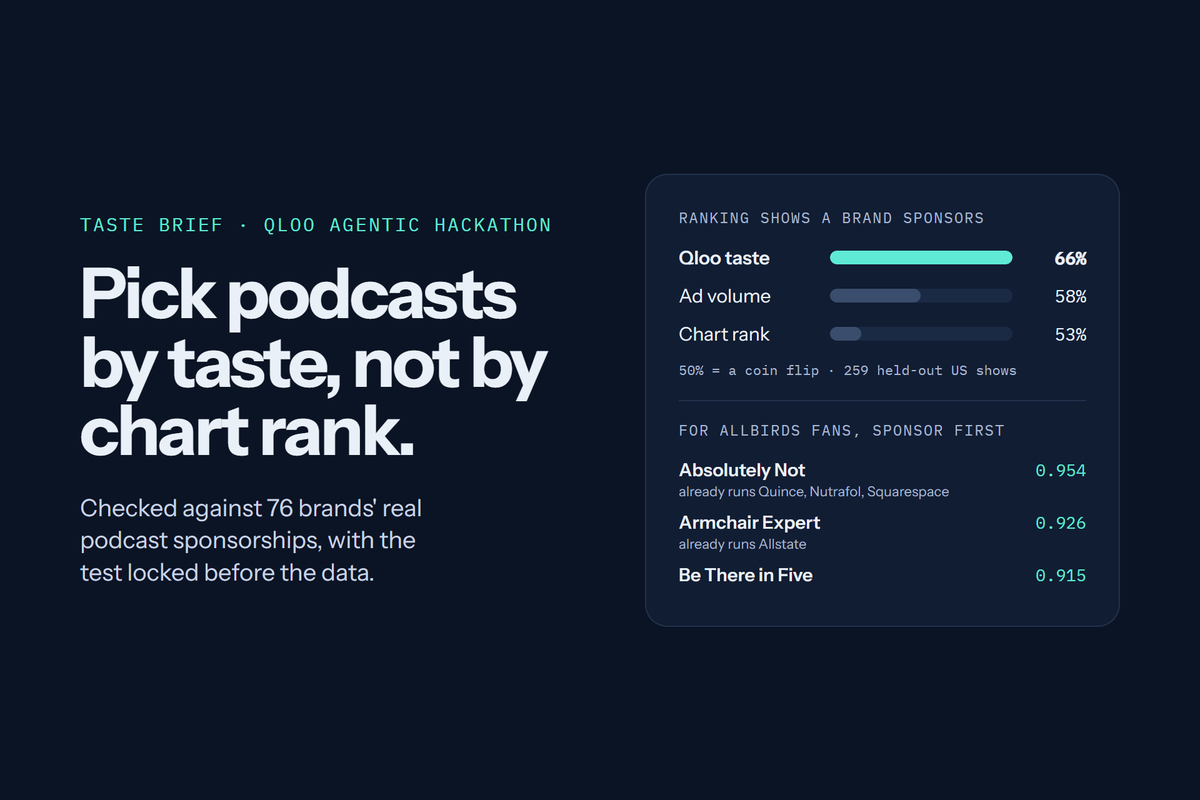
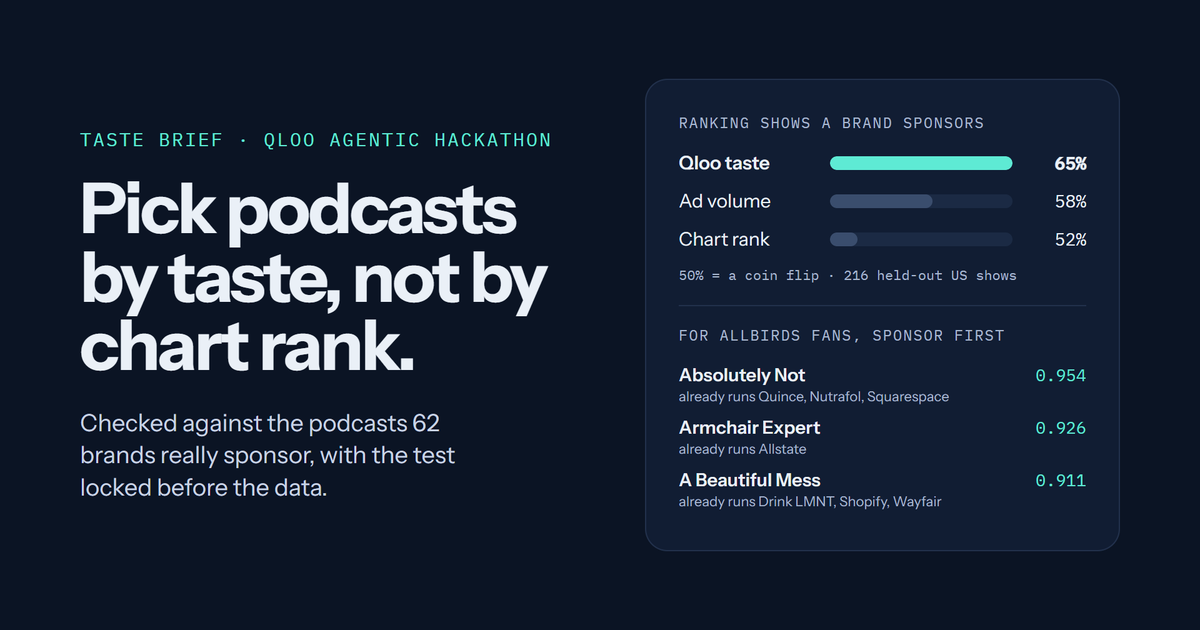
Podcasts ordered by Qloo rank plus ad-demand rank (the pre-registered H3 combination): 1.9 sponsored shows in each top 10 against 1.6 for either alone (public/rank.js, robustness.json); judge page: bar chart, two-way intervals, shortlist and prospective check; consistent numbers; mobile lock panel

diff --git a/public/index.html b/public/index.html
@@ -4,10 +4,10 @@
 <meta charset="utf-8">
 <meta name="viewport" content="width=device-width, initial-scale=1">
 <title>Taste Brief: pick podcasts by taste, not by chart rank</title>
-<meta name="description" content="An agent reads your audience's taste in Qloo and picks the podcasts to sponsor, the interests to target and the ad to test first. Checked against 76 brands' real podcast sponsorships.">
+<meta name="description" content="An agent reads your audience's taste in Qloo and picks the podcasts to sponsor, the interests to target and the ad to test first. Checked against the podcasts 62 brands really sponsor: Qloo 65%, the chart 52%.">
 <link rel="icon" href="/favicon.svg" type="image/svg+xml">
 <meta property="og:title" content="Taste Brief: pick podcasts by taste, not by chart rank">
-<meta property="og:description" content="Qloo ranked the shows brands really sponsor above the rest 66% of the time; the chart did 53%. Pre-registered, 259 held-out US podcasts, 76 brands.">
+<meta property="og:description" content="On 216 held-out US podcasts, Qloo ranked the shows 62 brands sponsor above the rest 65% of the time; the chart did 52%. Hypotheses locked before the data.">
 <meta property="og:image" content="https://taste-brief.thelongmarketing.workers.dev/og.png">
 <meta name="twitter:card" content="summary_large_image">
 <link rel="preconnect" href="https://fonts.googleapis.com">
@@ -176,9 +176,14 @@ ul.items strong{font-weight:600}
 details.trace{color:var(--faint);font-size:14px}
 .err{color:var(--warn)}
 body.result #how{display:none}
-.runbar{display:flex;flex-wrap:wrap;gap:6px 14px;align-items:center;border:1px solid var(--line);border-radius:14px;padding:12px 16px;font-size:14px;color:var(--mute)}
-.runbar b{color:var(--ink);font-weight:600}.runbar .dot{color:var(--faint)}
+.runbar{display:flex;flex-wrap:wrap;gap:6px 22px;align-items:center;border:1px solid var(--line);border-radius:14px;padding:12px 16px;font-size:14px;color:var(--mute)}
+.runbar b{color:var(--ink);font-weight:600}.runbar .acts{margin-left:auto;display:flex;flex-wrap:wrap;gap:8px}
+.runbar .acts button{font-size:13px;min-height:38px;padding:6px 14px;border-radius:10px}
+.scroll{overflow-x:auto}.loop .lockid{display:inline-block;max-width:100%;overflow-wrap:anywhere}.loop label{max-width:100%}.loop input[type=file]{width:100%;min-width:0}
+@media (max-width:600px){.verdicts thead{display:none}.verdicts,.verdicts tbody,.verdicts tr,.verdicts td{display:block}.verdicts tr{padding:10px 0;border-bottom:1px solid var(--dark-line)}.verdicts td{border:0;padding:2px 0}.verdicts td[data-label]::before{content:attr(data-label) ": ";color:#9aa0ad;font-size:12px}}
+@media (max-width:600px){.tests-card-inner .loop,.loop{margin-left:-12px;margin-right:-12px;padding:16px}.loop .steps{gap:8px}.runbar .acts{margin-left:0}}
 .pods-note{margin:14px 0 0;font-size:14px;color:var(--mute)}
+.pods .ads{font-family:var(--mono);font-size:12px;color:var(--faint)}
 .tests-rule{margin:0 0 14px;font-size:14px;color:var(--mute)}
 .loop button:disabled{opacity:1;background:var(--ok-soft);color:var(--ok);cursor:default}
 .loop input[type=file]::file-selector-button{font:inherit;font-weight:600;color:var(--dark-ink);background:transparent;border:1px solid #3a3f4a;border-radius:10px;padding:8px 12px;margin-right:10px;cursor:pointer}
@@ -195,12 +200,11 @@ body.result #how{display:none}
 <div class="hero-copy">
 <p class="kicker">For brands buying podcast and social ads</p>
 <h1>Pick podcasts by taste, not by chart rank.</h1>
-<p class="stat-m">Qloo 65% · chart 52%</p>
 <p class="lede">An agent reads your audience's taste in Qloo and picks the podcasts to sponsor, the interests to target and the ad to test first. Checked against where brands really sponsor.</p>
 <div class="cta"><button id="replay" type="button" hidden>See a real run now</button><a href="#f">or build your own</a></div>
 </div>
 <div class="proof" id="proof">
-<p class="eyebrow">Checked against real sponsorships · 216 podcasts, 62 brands</p>
+<p class="eyebrow">Real sponsorships · 216 podcasts · 62 brands</p>
 <p class="big">Shown one show a brand sponsors and one it doesn't, Qloo ranked the sponsored one higher 65% of the time. The chart did 52%.</p>
 <div class="pts" aria-label="Points above a coin flip">
 <div class="pt"><span>Qloo taste</span><i><b style="width:100%"></b></i><span>+14.7</span></div>
@@ -209,7 +213,7 @@ body.result #how{display:none}
 <div class="pt"><span>Chart rank</span><i><b class="base" style="width:15%"></b></i><span>+2.2</span></div>
 <p class="axis">Points above a coin flip (0 = 50%)</p>
 </div>
-<div class="chips"><span>Locked before the data</span><span>Holds within each genre</span><span>Holds for new deals</span></div>
+<div class="chips"><span>Locked before the data</span><span>Holds within each genre</span><span>Prospective test locked</span></div>
 <p class="foot">Sponsor reads from the shows' own episode notes, never shown to Qloo. Pre-registered labels give the same: 66% against 53%. <a href="/judge#podcasts">The full test</a></p>
 </div>
 </header>
@@ -250,6 +254,7 @@ body.result #how{display:none}
 <script type="module">
 import { RULE, canonicalPlan, planHash, adSetRows, toCsv, parseCsv, readResults, verdicts } from "/verdict.js";
 import { agentPath } from "/path.js";
+import { sponsorReady } from "/rank.js";
 const $ = (s) => document.querySelector(s);
 // a spaced dash used as punctuation in model text reads as a comma; hyphens inside words stay
 const esc = (s) => String(s ?? "").replace(/\s+[—–]\s+/g, ", ").replace(/[&<>"']/g, (c) => ({ "&": "&amp;", "<": "&lt;", ">": "&gt;", '"': "&quot;", "'": "&#39;" }[c]));
@@ -327,8 +332,8 @@ function versus(base, b, unbacked, scored, market) {
   const names = (x) => list(x.meta_interests).map((i) => esc(cleanInterest(i.interest))).join(", ");
   const city = esc(String(market || "").split(",")[0]);
   return `<section class="panel card vs">${scored ? `<h2><span>The same question, with and without Qloo</span><small>every interest scored by Qloo for this brand's audience in ${city}</small></h2>` : ""}<div class="grid">
-    <div class="guess"><h3>Plain AI guess, no data</h3><p>${esc(base.audience_summary)}</p>${scored ? gradedLine(scored.plain) : `<p><strong>Interests:</strong> ${names(base)}</p>`}</div>
-    <div class="ours"><h3>Taste Brief, from Qloo</h3><p>${esc(b.audience_summary)}</p>${scored ? gradedLine(scored.taste_brief) : `<p><strong>Interests:</strong> ${names(b)}</p>`}</div>
+    <div class="guess"><h3>Plain AI guess, no data</h3>${scored ? gradedLine(scored.plain) : `<p><strong>Interests:</strong> ${names(base)}</p>`}</div>
+    <div class="ours"><h3>Taste Brief, from Qloo</h3>${scored ? gradedLine(scored.taste_brief) : `<p><strong>Interests:</strong> ${names(b)}</p>`}</div>
   </div>${scored ? `<p class="note">Same grader for both: each interest is looked up in Qloo by its exact name, then Qloo scores how much this audience likes it. Generic interests such as "Running" can't be scored. For Taste Brief's picks this is partly circular, since they come from Qloo; it shows how far each pick is from Qloo's view of the audience, not how an ad will do. A score here can differ slightly from the one cited in the brief below, which came from the agent's own call (some narrowed to a product tag).</p>` : ""}${!scored && list(unbacked).length ? `<p class="unbacked"><strong>The plain guess would target these, and Qloo returned none of them in this run:</strong> ${list(unbacked).map((x) => esc(cleanInterest(x.label))).join(", ")}. That does not make them wrong. It means they are a guess, so test them against the Qloo picks or leave them out.</p>` : ""}</section>`;
 }
 
@@ -415,7 +420,7 @@ function loopPanel() {
       <div class="step"><b>2. Run it</b>A planning sheet for building the ad sets in Ads Manager, named with the plan id, capped at ${RULE.cap} per arm.</div>
       <div class="step"><b>3. Read it back</b>Upload the Ads Manager export. Checked against the receipt, each test reads ahead, pause, no clear difference or inconclusive.</div>
     </div>
-    <p class="note" style="margin:0">Locked rule: with at least ${RULE.minAddsToCart} adds to cart in the test and the control, pause a test whose cost per add to cart is more than ${Math.round(RULE.worseBy * 100)}% above the control's; an arm that hits its cap first is inconclusive. Exploratory calls for a small budget, not statistical proof.</p>
+    <p class="note" style="margin:0">Locked rule: once the test and the control each have ${RULE.minAddsToCart} adds to cart, a test is ahead if its cost per add to cart is below the control's, pause if it is more than ${Math.round(RULE.worseBy * 100)}% above, otherwise no clear difference; an arm that hits its spend cap first is inconclusive. Exploratory calls for a small budget, not statistical proof.</p>
     <div class="row"><button type="button" id="lock">Lock this test plan</button><span id="lock-out"></span></div>
     <div id="after-lock" hidden>
       <div class="row"><button type="button" class="ghost" id="dl-sheet">Download the planning sheet (CSV)</button><button type="button" class="ghost" id="dl-plan">Download the locked plan (JSON)</button></div>
@@ -473,7 +478,7 @@ function wireLoop(j) {
     const money = (x) => (x == null ? "n/a" : x.toFixed(2));
     $("#verdict-out").innerHTML = (sample ? `<div class="banner synthetic">Sample numbers, made up to show how the rule reads results. No ads were run.</div>` : "") + check
       + (v.length ? `<div class="scroll"><table class="verdicts"><thead><tr><th>Arm</th><th>Spend</th><th>Adds to cart</th><th>Cost per add to cart (control)</th><th>Verdict</th></tr></thead><tbody>${v.map((r) =>
-        `<tr><td>${esc(r.arm)}</td><td>${money(r.spend)}</td><td>${esc(r.addsToCart)}</td><td>${money(r.cost)} (${money(r.controlCost)})</td><td><span class="${cls(r.verdict)}">${esc(r.verdict)}</span><br><span class="note">${esc(r.why)}</span></td></tr>`).join("")}</tbody></table></div>`
+        `<tr><td><strong>${esc(r.arm)}</strong></td><td data-label="Spend">${money(r.spend)}</td><td data-label="Adds to cart">${esc(r.addsToCart)}</td><td data-label="Cost per add to cart (control)">${money(r.cost)} (${money(r.controlCost)})</td><td><span class="${cls(r.verdict)}">${esc(r.verdict)}</span><br><span class="note">${esc(r.why)}</span></td></tr>`).join("")}</tbody></table></div>`
         : `<p class="err">No ad sets named TB-${esc(locked.id)} in that file. Export from Ads Manager at the ad set level, with Amount spent and Adds to cart.</p>`);
   };
   $("#results-file").addEventListener("change", async (e) => { const f = e.target.files?.[0]; if (f && locked) show(await f.text(), false); });
@@ -494,15 +499,15 @@ function podcastPanel(p) {
   if (!p || p.error || !list(p.shows).length) return "";
   const t = PODCAST_TEST;
   const seeds = [...new Set(list(p.shows).flatMap((s) => list(s.driven_by).map((d) => d.name)))];
-  const li = list(p.shows).slice(0, 8).map((s, i) => {
+  const li = sponsorReady(list(p.shows)).slice(0, 8).map((s, i) => {
     const ads = list(s.advertisers);
     const why = list(s.driven_by)[0];
-    return `<li><span class="n">${String(i + 1).padStart(2, "0")}</span><div class="meta"><b>${esc(s.name)}</b>${ads.length ? `<span>Its episode notes already run ads for ${ads.slice(0, 4).map(esc).join(", ")}${ads.length > 4 ? ` and ${ads.length - 4} more` : ""}</span>` : `<span>No sponsor reads in the data we read: ask the host for rates</span>`}${why && seeds.length > 1 ? `<span class="why">Fit driven by ${esc(why.name)} fans</span>` : ""}</div><span class="sc">${s.affinity == null ? "" : Number(s.affinity).toFixed(3)}</span></li>`;
+    return `<li><span class="n">${String(i + 1).padStart(2, "0")}</span><div class="meta"><b>${esc(s.name)}</b>${ads.length ? `<span>Its episode notes already run ads for ${ads.slice(0, 4).map(esc).join(", ")}${ads.length > 4 ? ` and ${ads.length - 4} more` : ""}</span>` : `<span>No sponsor reads in the data we read: ask the host for rates</span>`}${why && seeds.length > 1 ? `<span class="why">Fit driven by ${esc(why.name)} fans</span>` : ""}</div><span class="sc">${s.affinity == null ? "" : Number(s.affinity).toFixed(3)}<br><span class="ads">${ads.length} ads</span></span></li>`;
   });
   const half = Math.ceil(li.length / 2);
-  return `<section class="panel card"><h2><span>Podcasts to sponsor first</span><small>${seeds.length === 1 ? `ranked by how much ${esc(seeds[0])} fans like each show (Qloo explainability)` : "ranked by Qloo for this brand's audience"}</small></h2>
+  return `<section class="panel card"><h2><span>Podcasts to sponsor first</span><small>shows ${seeds.length === 1 ? `${esc(seeds[0])} fans like (Qloo explainability)` : "this audience likes"}, ordered by taste and proven ad demand</small></h2>
     <div class="pods"><ol>${li.slice(0, half).join("")}</ol><ol start="${half + 1}">${li.slice(half).join("")}</ol></div>
-    <p class="pods-note">Mostly US shows: check reach in your market. In a pre-registered test on ${t.shows} held-out US podcasts and ${t.brands} brands, this ranking put the shows a brand sponsors above the rest ${Math.round(t.qloo * 100)}% of the time; the chart ${Math.round(t.chart * 100)}%. <a href="/judge#podcasts">The test</a></p></section>`;
+    <p class="pods-note">Score: how much the brand's fans like the show (Qloo). Ads: advertisers its episode notes already run. In the locked test on ${t.shows} held-out US podcasts and ${t.brands} brands, Qloo's taste rank put a show the brand sponsors above one it doesn't ${Math.round(t.qloo * 100)}% of the time (the chart ${Math.round(t.chart * 100)}%), and this order, taste plus ad demand, found 1.9 sponsored shows in each top 10, against 1.6 for either alone and 0.8 for the chart. Mostly US shows: check reach in your market. <a href="/judge#podcasts">The test</a></p></section>`;
 }
 
 // The agent's own decisions in this run, read from its Qloo calls, and what it chose not to use (its caveats).
@@ -532,7 +537,7 @@ function testsCard(b, j) {
   const same = tp.every((x) => x.kpi === tp[0].kpi && x.stop_if === tp[0].stop_if);
   const city = esc(String(j.market).split(",")[0]);
   const lines = tp.map((x) => `<li><strong>${esc(x.hypothesis)}</strong><dl><dt>Changes</dt><dd>${x.variable === "targeting" ? "Targeting only, with your usual creative" : x.variable === "creative" ? "Creative only, on the broad audience" : esc(x.variable)}</dd><dt>Run</dt><dd>${esc(x.ad_set)}</dd>${x.why ? `<dt>Why</dt><dd>${esc(x.why)}</dd>` : ""}${same ? "" : `<dt>Judge on</dt><dd>${esc(x.kpi)}</dd><dt>Pause rule</dt><dd>${esc(x.stop_if)}</dd>`}</dl>${ev(x, true)}</li>`).join("");
-  return card("What to test first", `<p class="tests-rule">Control for every test: broad targeting in ${city}, same ages, your usual message. Each test changes one thing.${same ? ` Judge on ${esc(lc(tp[0].kpi))}; pause rule: ${esc(lc(tp[0].stop_if))}` : ""}</p><ul class="tests">${lines}</ul>${loopPanel()}`, "each test rests on the Qloo results shown");
+  return card("What to test first", `<p class="tests-rule">Control for every test: broad targeting in ${city}, same ages, your usual message. Each test changes one thing${same ? `, judged on ${esc(lc(tp[0].kpi))}` : ""}. The rule for reading results is locked below.</p><ul class="tests">${lines}</ul>${loopPanel()}`, "each test rests on the Qloo results shown");
 }
 
 // Draw one result: from a run that just finished, or the recorded run of the example.
@@ -542,13 +547,13 @@ function showResult(j) {
   $("#status").textContent = "";
   $("#live").innerHTML = "";
   const when = j.recorded ? new Date(j.recorded.at).toLocaleString(undefined, { dateStyle: "medium", timeStyle: "short" }) : "";
-  const asked = `<b>${esc(j.product)}</b><span class="dot">·</span>${esc(j.market)}${j.compare_market ? ` vs ${esc(j.compare_market)}` : ""}${j.references ? `<span class="dot">·</span>${esc(j.references)}` : ""}`;
-  const steps = `<span class="dot">·</span>${j.trace.length} agent steps${j.run?.qloo_calls ? `, ${j.run.qloo_calls} Qloo calls in all` : ""}, listed at the bottom`;
+  const asked = `<b>${esc(j.product)}</b><span>${esc(j.market)}${j.compare_market ? ` vs ${esc(j.compare_market)}` : ""}</span>${j.references ? `<span>${esc(j.references)}</span>` : ""}`;
+  const steps = `<span>${j.trace.length} agent steps${j.run?.qloo_calls ? `, ${j.run.qloo_calls} Qloo calls with grading and the city lists` : ""}</span><span class="acts"><button type="button" class="ghost" id="copy-md">Copy the brief</button><button type="button" class="ghost" id="dl-csv">Interests as CSV</button></span>`;
   const banner = j.mode === "replay"
-    ? `<div class="runbar"><span>Real run, recorded ${esc(when)}</span><span class="dot">·</span>${asked}${steps}</div>`
+    ? `<div class="runbar"><span>Real run, recorded ${esc(when)}</span>${asked}${steps}</div>`
     : j.mode === "live"
-    ? `<div class="runbar"><span>Live run on real Qloo data${j.quota ? `, ${j.quota.left} free runs left today` : ""}</span><span class="dot">·</span>${asked}${steps}</div>`
-    : `<div class="banner synthetic">Sample data. The names and numbers below are made up to show how it works. Add the access code, or come back tomorrow, for real Qloo data.</div>`;
+    ? `<div class="runbar"><span>Live run on real Qloo data${j.quota ? `, ${j.quota.left} free runs left today` : ""}</span>${asked}${steps}</div>`
+    : `<div class="banner synthetic">Sample data. The names and numbers below are made up to show how it works. Add the access code, or come back tomorrow, for real Qloo data.</div><div class="runbar">${asked}${steps}</div>`;
   const warn = [j.incomplete ? `The model's brief still had a problem after two resends (${esc(j.incomplete)}). Treat it as a draft.` : "",
     j.mode === "live" && j.signal?.weak ? `Limited high affinity results: Qloo returned ${j.signal.strong} results with affinity 0.9 or more for this seed. That threshold is this tool's rule of thumb, not a confidence score; a closer comparable brand may give more to work with.` : ""].filter(Boolean);
   $("#out").innerHTML = `${banner}${warn.map((w) => `<div class="banner synthetic">${w}</div>`).join("")}
@@ -569,7 +574,6 @@ function showResult(j) {
     </div>
     ${list(b.test_plan).length ? testsCard(b, j) : ""}
     ${markets(j.markets)}
-    <div class="actions"><button type="button" class="ghost" id="copy-md">Copy the brief</button><button type="button" class="ghost" id="dl-csv">Download interests as CSV</button></div>
     <details class="trace"><summary>Every Qloo call the agent made</summary>${j.run ? `<p class="note">This run: ${esc(j.run.seconds)} s, ${esc(j.run.qloo_calls)} Qloo calls, ${esc(j.run.model_calls)} model calls, version ${esc(String(j.run.version).slice(0, 8))}, ${esc(j.run.at)}.</p>` : ""}<ol>${list(j.trace).map((t) =>
       `<li>${esc(t.tool)} ${t.input ? esc(JSON.stringify(t.input)) : ""}${t.n !== undefined ? `: ${t.n} results` : ""}${t.error ? ` <span class="err">${esc(t.error)}</span>` : ""}</li>`).join("")}</ol></details>`;
   wireLoop(j);

diff --git a/public/judge.html b/public/judge.html
@@ -56,6 +56,11 @@ ul ul{margin:4px 0 0}
 .btn:hover{color:var(--acc-ink)}
 code{font-family:var(--mono);font-size:13px;background:var(--code);border-radius:6px;padding:1px 5px;overflow-wrap:anywhere}
 .decision{background:var(--code);border-radius:14px;padding:14px 16px;font-weight:600;margin:16px 0 0}
+.pts{display:flex;flex-direction:column;gap:10px;max-width:640px;margin:16px 0 4px}
+.pt{display:grid;grid-template-columns:170px minmax(0,1fr) 56px;gap:12px;align-items:center;font-size:14px}
+.pt i{display:block;height:12px;border-radius:6px;background:#1c2a44}.pt b{display:block;height:12px;border-radius:6px;background:var(--ok)}.pt b.base{background:#3a4a63}
+.pt span:last-child{font-family:var(--mono);text-align:right}.axis{margin:0;font-family:var(--mono);font-size:12px;color:var(--faint)}
+@media (max-width:640px){.pt{grid-template-columns:1fr auto;gap:4px 10px}.pt i{grid-column:1/-1;grid-row:2;height:8px}.pt b{height:8px}}
 </style>
 </head>
 <body>
@@ -75,16 +80,23 @@ code{font-family:var(--mono);font-size:13px;background:var(--code);border-radius
     <h2>The test: which podcasts do brands really sponsor?</h2>
     <p>Sponsor reads in the shows' own episode notes (public RSS) are the answer key; Qloo never sees them. For each brand, Qloo ranks the shows by how much the brand's audience likes them, and we check how often a show the brand sponsors ranks above one it doesn't (AUC; 0.50 is a coin flip). A show counts as sponsored when it reads the brand in at least 2 episodes of the past year.</p>
     <p>Locked first: hypotheses, measures, baselines and pass rules were fingerprinted with SHA-256 and pushed to the public repo before any held-out show was read (<code>PREREGISTRATION.md</code>, commit c4d6732), and the analysis code before any score was fetched. The pilot shows (Apple's US top 200) are not in the test, which uses Apple's US charts in 12 genres. Check the fingerprints on any OS with <code>python scripts/podcast/verify_lock.py</code>.</p>
+    <div class="pts" role="img" aria-label="Points above a coin flip, strict labels">
+      <div class="pt"><span>Qloo taste</span><i><b style="width:100%"></b></i><span>+14.7</span></div>
+      <div class="pt"><span>Ad volume</span><i><b class="base" style="width:56%"></b></i><span>+8.2</span></div>
+      <div class="pt"><span>Qloo popularity</span><i><b class="base" style="width:18%"></b></i><span>+2.6</span></div>
+      <div class="pt"><span>Chart rank</span><i><b class="base" style="width:15%"></b></i><span>+2.2</span></div>
+      <p class="axis">AUC points above a coin flip (0 = 50%), strict labels</p>
+    </div>
     <table>
       <thead><tr><th>Ranking the shows by</th><th>Strict labels: 216 shows, 62 brands</th><th>Pre-registered: 259 shows, 76 brands</th></tr></thead>
       <tbody>
-        <tr><td><strong>Qloo affinity for the brand</strong> (what Taste Brief uses)</td><td class="n" data-label="Strict"><span><strong>0.647</strong> (0.611 to 0.684)</span></td><td class="n" data-label="Pre-registered"><span><strong>0.663</strong> (0.630 to 0.697)</span></td></tr>
-        <tr><td>Ad volume: how many other brands the show carries</td><td class="n" data-label="Strict"><span>0.582 (fair*: 0.615)</span></td><td class="n" data-label="Pre-registered"><span>0.581 (fair*: 0.627)</span></td></tr>
+        <tr><td><strong>Qloo affinity for the brand</strong> (what Taste Brief uses)</td><td class="n" data-label="Strict"><span><strong>0.647</strong> (0.60 to 0.70)</span></td><td class="n" data-label="Pre-registered"><span><strong>0.663</strong> (0.61 to 0.71)</span></td></tr>
+        <tr><td>Ad volume: how many other brands the show carries</td><td class="n" data-label="Strict"><span>0.582</span></td><td class="n" data-label="Pre-registered"><span>0.581</span></td></tr>
         <tr><td>Qloo popularity of the show</td><td class="n" data-label="Strict"><span>0.526</span></td><td class="n" data-label="Pre-registered"><span>0.517</span></td></tr>
         <tr><td>Apple chart rank in its genre</td><td class="n" data-label="Strict"><span>0.522</span></td><td class="n" data-label="Pre-registered"><span>0.528</span></td></tr>
       </tbody>
     </table>
-    <p class="note">95% intervals by resampling brands, as pre-registered. *Only shows carrying 3 or more other brands, so both sides face the same entry rule; Qloo there: 0.651 and 0.664.</p>
+    <p class="note">95% intervals resampling both brands and shows, leaving out Quince (no Qloo data); the pre-registered brand-only intervals are narrower (0.611 to 0.684; 0.630 to 0.697). On shows carrying 3 or more other brands, so both sides face the same entry rule, ad volume reaches 0.615 and 0.627 and Qloo 0.651 and 0.664.</p>
     <h3>Pre-registered hypotheses: all pass on both labels</h3>
     <ul>
       <li><strong>H1, Qloo beats chance:</strong> above 0.5 for 51 of 62 brands (65 of 76).</li>
@@ -92,14 +104,17 @@ code{font-family:var(--mono);font-size:13px;background:var(--code);border-radius
       <li><strong>H3, Qloo adds to ad volume:</strong> the two ranks combined beat ad volume alone by +4 to +10 points (+5 to +11).</li>
       <li><strong>H4, exploratory:</strong> brands whose Qloo scores spread more across shows do better: 0.66 against 0.64 (0.70 against 0.62).</li>
     </ul>
-    <h3>Exploratory checks, after two independent audits</h3>
+    <h3>The shortlist a buyer sees</h3>
+    <p>In each ranking's top 10, Qloo finds 1.6 sponsored shows on average, ad volume 1.6, the chart 0.8, random 0.8. Qloo and ad volume together, the H3 combination, find <strong>1.9</strong>, ahead of ad volume alone by +0.03 to +0.76 (1.7 against 1.3 on the pre-registered labels). The app orders its podcasts this way (<code>public/rank.js</code>).</p>
+    <h3>Locked, still to come: a prospective check</h3>
+    <p>Qloo's ranks for all 259 shows and every episode already published were frozen at 17:14 UTC on 21 Oct 2026 and pushed to the public repo (<code>PREREGISTRATION-2.md</code>, <code>LOCK-2.sha256</code>). Sponsorships that appear in episodes released after the lock are read once on 29 or 30 Oct; the result is added here whatever it shows.</p>
+    <h3>Exploratory checks, after two reviews by separate AI agents</h3>
     <ul>
-      <li><strong>Specific to the brand:</strong> ranked by other brands' Qloo scores, the same shows score 0.57; by the brand's own, 0.65. Ahead for 47 of 61 brands, +4 to +13 points. Qloo is not just picking shows every advertiser likes.</li>
+      <li><strong>Specific to the brand:</strong> ranked by other brands' Qloo scores, the same shows score 0.57; by the brand's own, 0.65. Ahead for 47 of 61 brands, +4 to +13 points. Part of the signal is shows advertisers like in general; most is the brand's own audience.</li>
       <li><strong>Within genre:</strong> only shows in the same genre compared: Qloo 0.62, chart 0.55. Ahead of the chart in all 12 genres; weakest in leisure (below chance) and sports.</li>
-      <li><strong>New deals:</strong> 43 sponsorships that appear only in a show's 10 newest episodes, too recent to have shaped Qloo's data: Qloo 0.62 (0.51 to 0.72), chart 0.45. Established deals: 0.65.</li>
-      <li><strong>Uncertainty:</strong> the same shows serve every brand, so resampling shows as well as brands gives a wider interval: 0.60 to 0.70.</li>
-      <li><strong>Where it adds least:</strong> for the 36 brands with 10 or more sponsored shows, a genre-based prior does almost as well (0.61 against 0.63). In each ranking's top 10, Qloo finds 1.6 sponsored shows on average, the chart 0.8, ad volume 1.6, random 0.8; the app shows Qloo's ranking next to each show's advertisers.</li>
-      <li><strong>By brand:</strong> it works for brands bought on audience fit, such as Ritual 0.82, Skims 0.79, Honeylove 0.77, each above its genre prior and other brands' scores; it fails for meal kits and mass-reach buyers (Factor 0.42, Zocdoc 0.45, Casper 0.37).</li>
+      <li><strong>Recent deals:</strong> 43 sponsorships that appear only in a show's 10 newest episodes: Qloo 0.62 (0.51 to 0.72), chart 0.45; established deals 0.65. Suggestive only; the prospective check above is the real test.</li>
+      <li><strong>Where it adds least:</strong> for the 36 brands with 10 or more sponsored shows, a genre-based prior does almost as well (0.61 against 0.63).</li>
+      <li><strong>By brand</strong> (per-brand AUC on 12 to 22 shows, so noisy): it works for brands bought on audience fit, such as Ritual 0.82, Skims 0.79, Honeylove 0.77, each above its genre prior and other brands' scores; it fails for meal kits and mass-reach buyers (Factor 0.42, Zocdoc 0.45, Casper 0.37).</li>
       <li><strong>Competitor pairs</strong> fixed in advance: 4 of the 6 could run (ExpressVPN and Helix Sleep are not in Qloo). In betting a competitor's audience predicts almost as well (DraftKings from FanDuel 0.70 against 0.72), but sports genre alone does too; the other pairs are mixed. Descriptive only.</li>
     </ul>
     <p class="note">Labels: 43 of 100 random matches of the pre-registered dictionary were sponsor reads, so a stricter label (whole word plus a sponsor cue nearby) was declared in <code>DEVIATION-1.md</code> before any analysis: 82 of 100. Both samples were read by Claude, not by a person. Sponsor reads in notes miss dynamically inserted ads; US shows and brands that Qloo knows by exact name only. The test checks Qloo's brand-to-podcast affinity (the same call the app makes) on chart shows, not the app's picks from Qloo's whole catalogue. Files: <code>results-strict.json</code>, <code>results.json</code>, <code>robustness.json</code>, <code>recency.json</code>; scripts in <code>scripts/podcast/</code>.</p>
@@ -123,7 +138,7 @@ code{font-family:var(--mono);font-size:13px;background:var(--code);border-radius
   <section class="panel">
     <h2>The run in the video: wool running sneakers, $120, London</h2>
     <p>Closest brand: Allbirds (Qloo knows the brand, not this shoe). Second city: Hanoi. Live run on 21 Oct 2026; it is the recorded run on the demo.</p>
-    <p><strong>Podcasts to sponsor first</strong>, ranked for Allbirds' audience: Absolutely Not (0.954; its notes already run Quince, Nutrafol, Squarespace), Armchair Expert with Dax Shepard (0.926; Allstate), Be There in Five (0.915), Young House Love Has A Podcast (0.912).</p>
+    <p><strong>Podcasts to sponsor first</strong>, shows Allbirds fans like ordered by taste and ad demand: Absolutely Not (0.954; its notes already run 18 advertisers, including Quince, Nutrafol and Squarespace), Armchair Expert with Dax Shepard (0.926; Allstate), A Beautiful Mess Podcast (0.911; Drink LMNT, Shopify, Wayfair, MasterClass). Mostly US shows.</p>
     <div class="grid">
       <div class="guess"><h3>Plain AI, no data · 0 of 6 scored</h3>
         <div class="chips"><span class="chip">Running · no score</span><span class="chip">Sustainable fashion · not in Qloo</span><span class="chip">Parkrun · not in Qloo</span><span class="chip">Veja · no score</span><span class="chip">Cycling to work · not in Qloo</span><span class="chip">Minimalism · not in Qloo</span></div>
@@ -157,7 +172,7 @@ code{font-family:var(--mono);font-size:13px;background:var(--code);border-radius
   <section class="panel">
     <h2>What the checks prove, and what they don't</h2>
     <ul>
-      <li>Sponsorships show where brands spend, not that the spend paid off. No ads have been run by us; the tests in the app are how a marketer finds out.</li>
+      <li>Sponsorships show where brands spend, not that the spend paid off. No ads have been run by us; the tests in the app are how a marketer finds out. The sponsor labels were checked by an AI, not a person.</li>
       <li>Citations for anything other than the seed brand are checked against Qloo results from the same run, with matching names and numbers. The code does not verify the full meaning of each claim.</li>
       <li>For brands, artists and TV the city only nudges Qloo's ranking; places are filtered to each city. Interest names still need checking in Meta Ads Manager.</li>
     </ul>

diff --git a/public/rank.js b/public/rank.js
@@ -1,0 +1,28 @@
+// Order podcast candidates the way the podcast check found best for a shortlist: Qloo's rank for the brand plus the
+// show's rank by how many advertisers its episode notes already run (the pre-registered H3 combination). In the
+// held-out test this put 1.9 sponsored shows in the top 10, against 1.6 for Qloo alone or ad volume alone
+// (docs/podcast-check/robustness.json). A show with no sponsor data counts as 0 advertisers.
+
+// average ranks, 0 for the lowest value; ties share their mean rank
+function ranks(values) {
+  const order = values.map((v, i) => [v, i]).sort((a, b) => a[0] - b[0]);
+  const out = new Array(values.length);
+  for (let i = 0; i < order.length; ) {
+    let j = i;
+    while (j + 1 < order.length && order[j + 1][0] === order[i][0]) j++;
+    for (let k = i; k <= j; k++) out[order[k][1]] = (i + j) / 2;
+    i = j + 1;
+  }
+  return out;
+}
+
+/** Shows sorted by taste rank plus ad-demand rank, best first; ties go to the higher Qloo affinity. */
+export function sponsorReady(shows) {
+  const list = Array.isArray(shows) ? shows : [];
+  const aff = list.map((s) => (typeof s.affinity === "number" ? s.affinity : -1));
+  const ads = list.map((s) => (Array.isArray(s.advertisers) ? s.advertisers.length : 0));
+  const ra = ranks(aff), rv = ranks(ads);
+  return list.map((s, i) => ({ s, score: ra[i] + rv[i], aff: aff[i] }))
+    .sort((a, b) => b.score - a.score || b.aff - a.aff)
+    .map((x) => x.s);
+}

diff --git a/test/rank.test.js b/test/rank.test.js
@@ -1,0 +1,19 @@
+import { test } from "node:test";
+import assert from "node:assert/strict";
+import { sponsorReady } from "../public/rank.js";
+
+test("sponsorReady adds the taste rank and the ad-demand rank", () => {
+  const shows = [
+    { name: "A", affinity: 0.95, advertisers: null },
+    { name: "B", affinity: 0.93, advertisers: ["x", "y", "z"] },
+    { name: "C", affinity: 0.91, advertisers: ["x"] },
+    { name: "D", affinity: 0.90, advertisers: null },
+  ];
+  assert.deepEqual(sponsorReady(shows).map((s) => s.name), ["B", "A", "C", "D"]);
+});
+
+test("sponsorReady breaks ties on Qloo affinity and keeps every show", () => {
+  const shows = [{ name: "low", affinity: 0.9, advertisers: [] }, { name: "high", affinity: 0.95, advertisers: [] }];
+  assert.deepEqual(sponsorReady(shows).map((s) => s.name), ["high", "low"]);
+  assert.deepEqual(sponsorReady(null), []);
+});

diff --git a/src/worker.js b/src/worker.js
@@ -147,7 +147,7 @@ export default {
               onStep: (s) => send({ type: "step", run: `${market} vs ${marketB}`, step: s }) }).catch((e) => ({ error: String(e.message || e) }))
             : null,
           gradeBoth().catch(() => null),
-          seedEntities.length ? podcastPartners({ qloo, seeds: seedEntities }).catch((e) => ({ error: String(e.message || e) })) : null,
+          seedEntities.length ? podcastPartners({ qloo, seeds: seedEntities, take: 20 }).catch((e) => ({ error: String(e.message || e) })) : null,
         ]);
         // what the plain guess would target that Qloo did not return anywhere in this run (entities, tags or city lists)
         const returned = [...out.registry, ...(out.tags || []), ...(markets?.types || []).flatMap((t) => [...(t.only_a || []), ...(t.only_b || []), ...(t.shared || [])])];

diff --git a/src/podcasts.js b/src/podcasts.js
@@ -1,6 +1,6 @@
 // Podcast partners: shows the brand's audience over-indexes on, ranked by Qloo, with Qloo's own explanation of which
 // input drove each pick. Next to each show, the advertisers its own episode notes already name (public RSS, read for the
-// podcast check in docs/podcast-check); that list is evidence a show sells ads, it never feeds the ranking.
+// podcast check in docs/podcast-check). The page orders the shows by Qloo's rank plus this ad-demand rank (public/rank.js).
 import SPONSORS from "./data/podcast-sponsors.json" with { type: "json" };
 
 const norm = (s) => String(s || "").toLowerCase().replace(/[^a-z0-9]/g, "");

diff --git a/scripts/podcast/robustness.py b/scripts/podcast/robustness.py
@@ -10,7 +10,8 @@ docs/podcast-check/robustness.json.
 - symmetric selection: only shows carrying 3 or more OTHER brands, so ad volume is measured fairly
 - genre prior: the brand's carry rate in the show's genre (cross-fitted, shrunk); its shrinkage flattens it for brands
   with few positives, so the fair comparison is the group with 10 or more
-- precision at 10: expected sponsored shows in each ranking's top 10, ties split evenly
+- precision at 10: expected sponsored shows in each ranking's top 10, ties split evenly; also for the pre-registered H3
+  combination (Qloo rank plus ad-volume rank), which is how the app now orders podcasts
 
 Usage: python scripts/podcast/robustness.py
 """
@@ -125,6 +126,7 @@ def run(strict):
                      "sym_qloo": wauc(q[sym], lab[sym]), "sym_ad_volume": wauc(others[sym], lab[sym]),
                      "within_genre_qloo": w_q / t if t else None, "within_genre_chart": w_c / t if t else None,
                      "p10_qloo": p_at_10(q, lab), "p10_chart": p_at_10(chart, lab), "p10_ad_volume": p_at_10(others, lab),
+                     "p10_qloo_plus_ad_volume": p_at_10(np.array(ranks(list(q))) + np.array(ranks(list(others))), lab),
                      "p10_random": 10 * lab.mean()})
         rows[-1]["_lab"], rows[-1]["_q"], rows[-1]["_c"], rows[-1]["_g"] = lab, q, chart, generic
 
@@ -146,6 +148,9 @@ def run(strict):
     for r in rows:
         other_aucs = [wauc(Q[o], r["_lab"]) for o in scorable if o != r["brand"]]
         own_beats.append(float(np.mean([r["qloo"] > a for a in other_aucs])))
+    d10 = np.array([r["p10_qloo_plus_ad_volume"] - r["p10_ad_volume"] for r in rows])
+    bs10 = [d10[rng.integers(0, len(d10), len(d10))].mean() for _ in range(B_ITER)]
+    p10ci = [round(float(np.percentile(bs10, 2.5)), 3), round(float(np.percentile(bs10, 97.5)), 3)]
     big = [r for r in rows if r["positives"] >= 10]
     small = [r for r in rows if r["positives"] < 10]
     above = sum(r["qloo"] > 0.5 for r in rows); ties = sum(r["qloo"] == 0.5 for r in rows); nn = len(rows) - ties
@@ -168,7 +173,8 @@ def run(strict):
         "genre_prior_by_positives": {"10_or_more": {"n": len(big), "qloo": m("qloo", big), "genre_prior": m("genre_prior", big), "chart": m("chart", big), "ad_volume": m("ad_volume", big)},
                                      "3_to_9": {"n": len(small), "qloo": m("qloo", small), "genre_prior": m("genre_prior", small)},
                                      "note": "the prior is shrunk toward the brand's overall rate, which flattens it for brands with few positives; compare on 10 or more"},
-        "precision_at_10_expected": {"qloo": m("p10_qloo"), "chart": m("p10_chart"), "ad_volume": m("p10_ad_volume"), "random": m("p10_random")},
+        "precision_at_10_expected": {"qloo": m("p10_qloo"), "chart": m("p10_chart"), "ad_volume": m("p10_ad_volume"), "random": m("p10_random"),
+                                     "qloo_plus_ad_volume": m("p10_qloo_plus_ad_volume"), "ci95_combined_minus_ad_volume": p10ci},
         "rows": out_rows,
     }
 

diff --git a/README.md b/README.md
@@ -19,8 +19,10 @@ it doesn't 65% of the time (AUC 0.647, 95% CI 0.611 to 0.684), against Apple cha
 ad volume 0.582. With the pre-registered label: 0.663 on 259 shows and 76 brands. All pre-registered hypotheses pass on
 both. Exploratory checks after two independent audits ([robustness.json](docs/podcast-check/robustness.json),
 [recency.json](docs/podcast-check/recency.json)): the brand's own Qloo score beats other brands' scores on the same shows
-(0.65 against 0.57), Qloo beats the chart inside every genre (0.62 against 0.55), it holds for deals too new to be in
-Qloo's data (0.62 against 0.45, 43 placements), and resampling shows as well as brands gives 0.60 to 0.70. Details and
+(0.65 against 0.57), Qloo beats the chart inside every genre (0.62 against 0.55), it holds for the most recent deals (0.62 against 0.45, 43 placements, suggestive only), and resampling shows as well as brands gives 0.60 to 0.70. In the top 10,
+Qloo plus ad volume (the pre-registered H3 combination, which the app uses to order podcasts) finds 1.9 sponsored shows
+against 1.6 for either alone. A prospective check is locked: Qloo's ranks were frozen on 21 Oct 2026 and sponsorships in
+later episodes are read on 29 or 30 Oct ([PREREGISTRATION-2.md](docs/podcast-check/PREREGISTRATION-2.md)). Details and
 scripts: [docs/podcast-check](docs/podcast-check/), [scripts/podcast](scripts/podcast/).
 
 A second set of benchmarks is graded by Qloo itself on a held-out competitor's audience (61% of Taste Brief's interests
